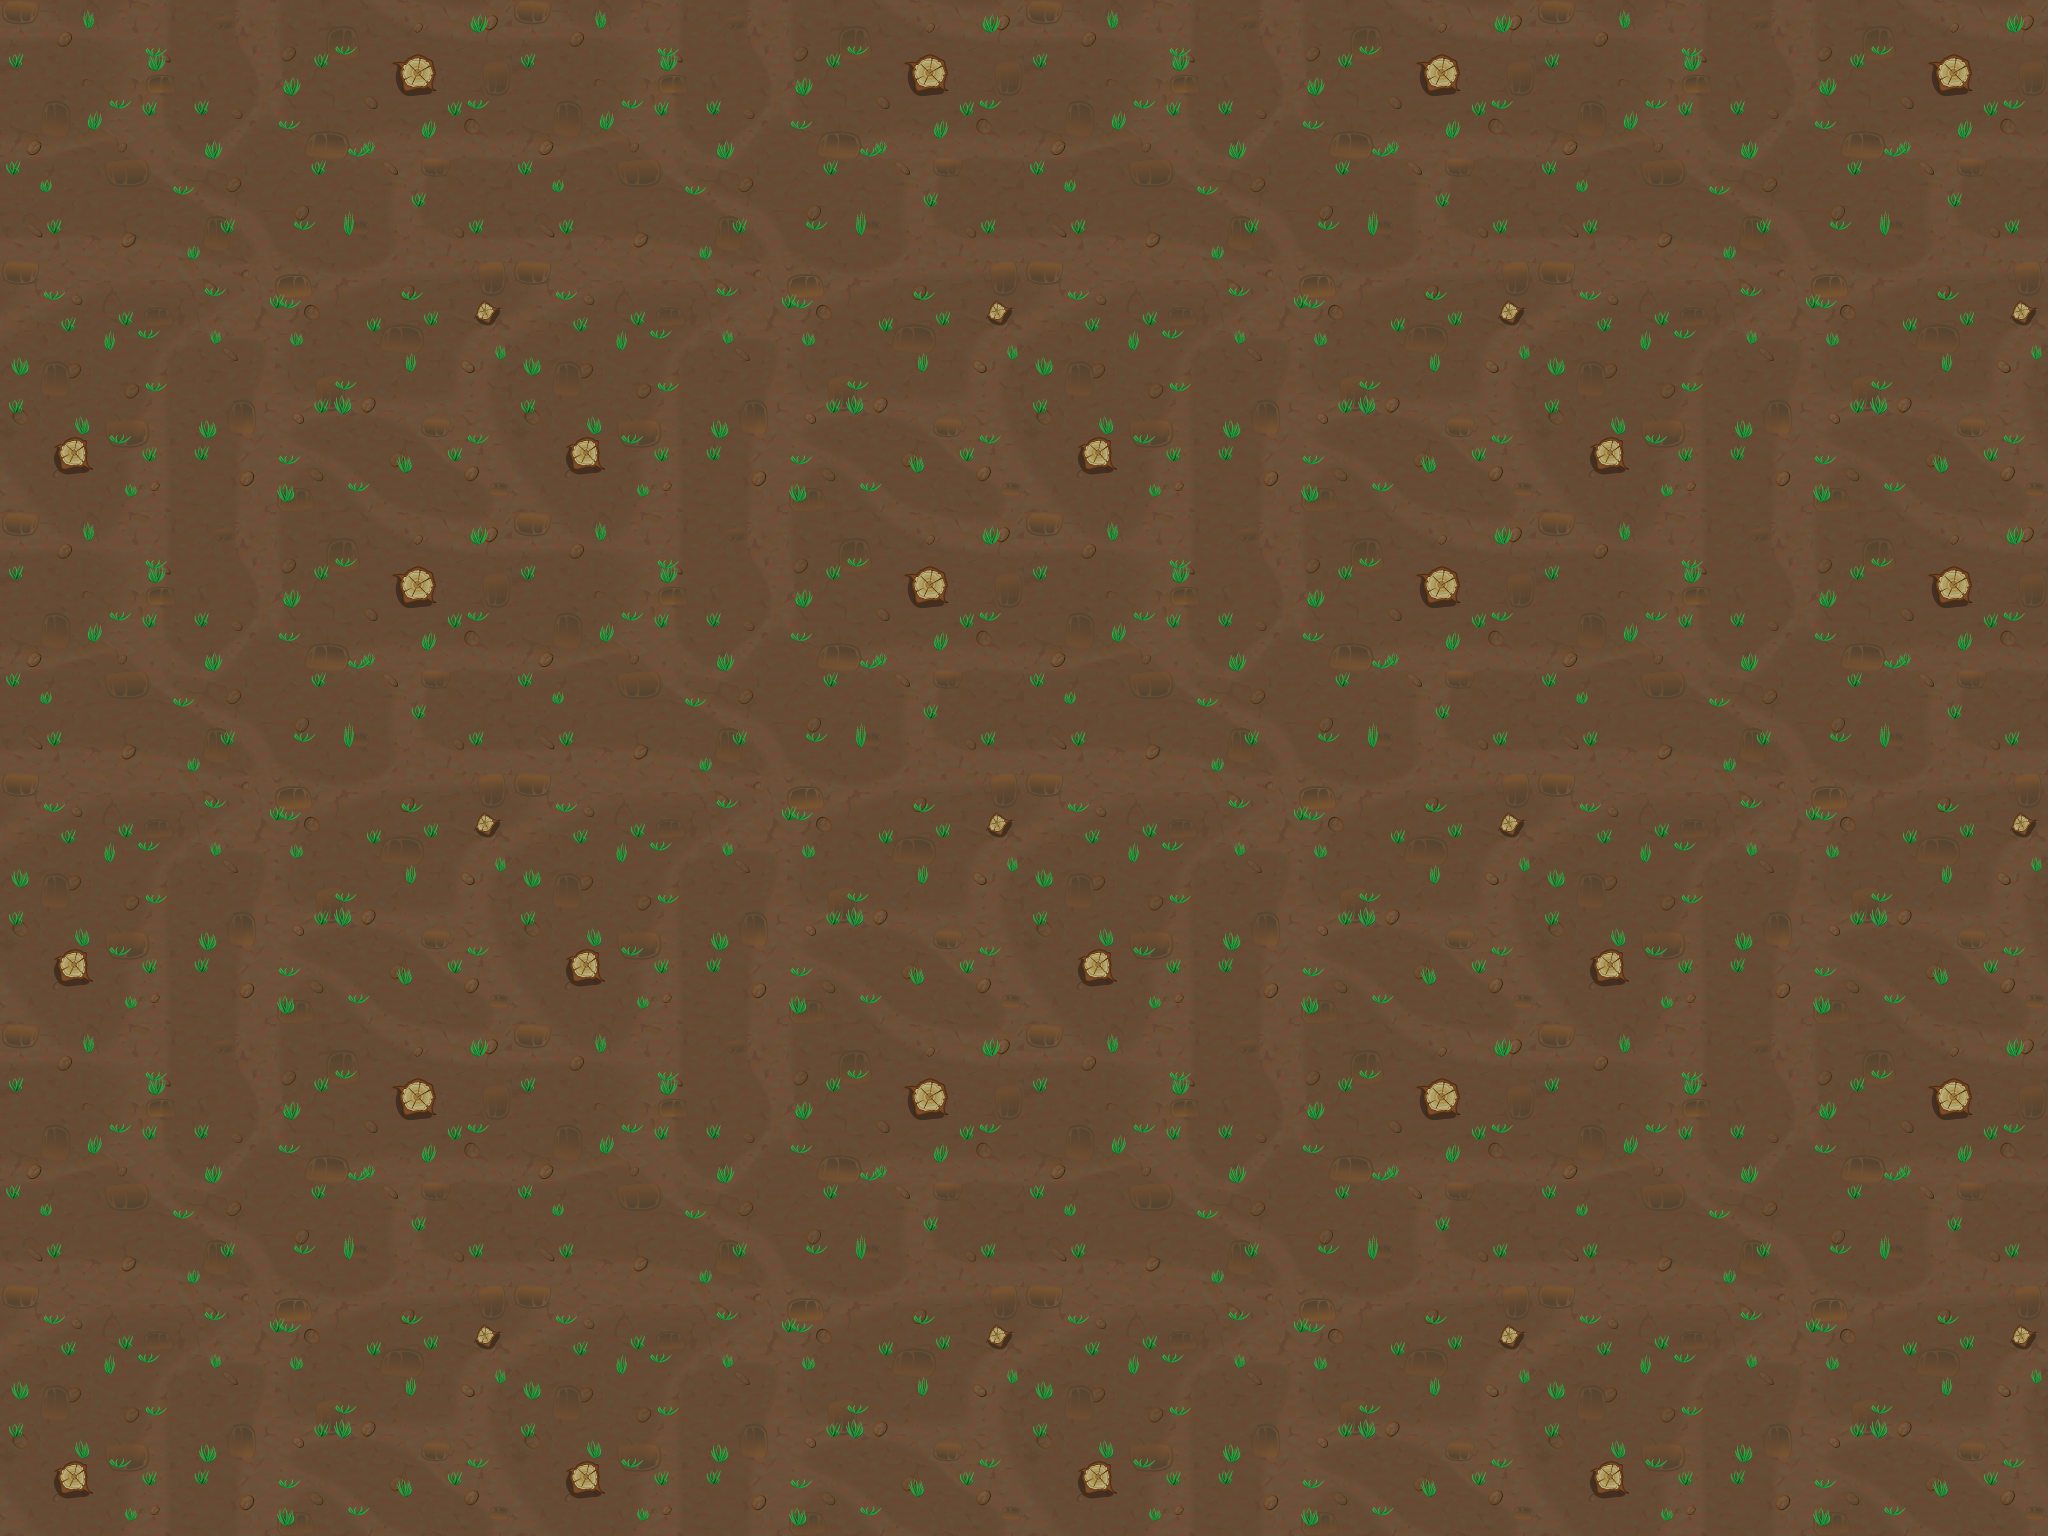
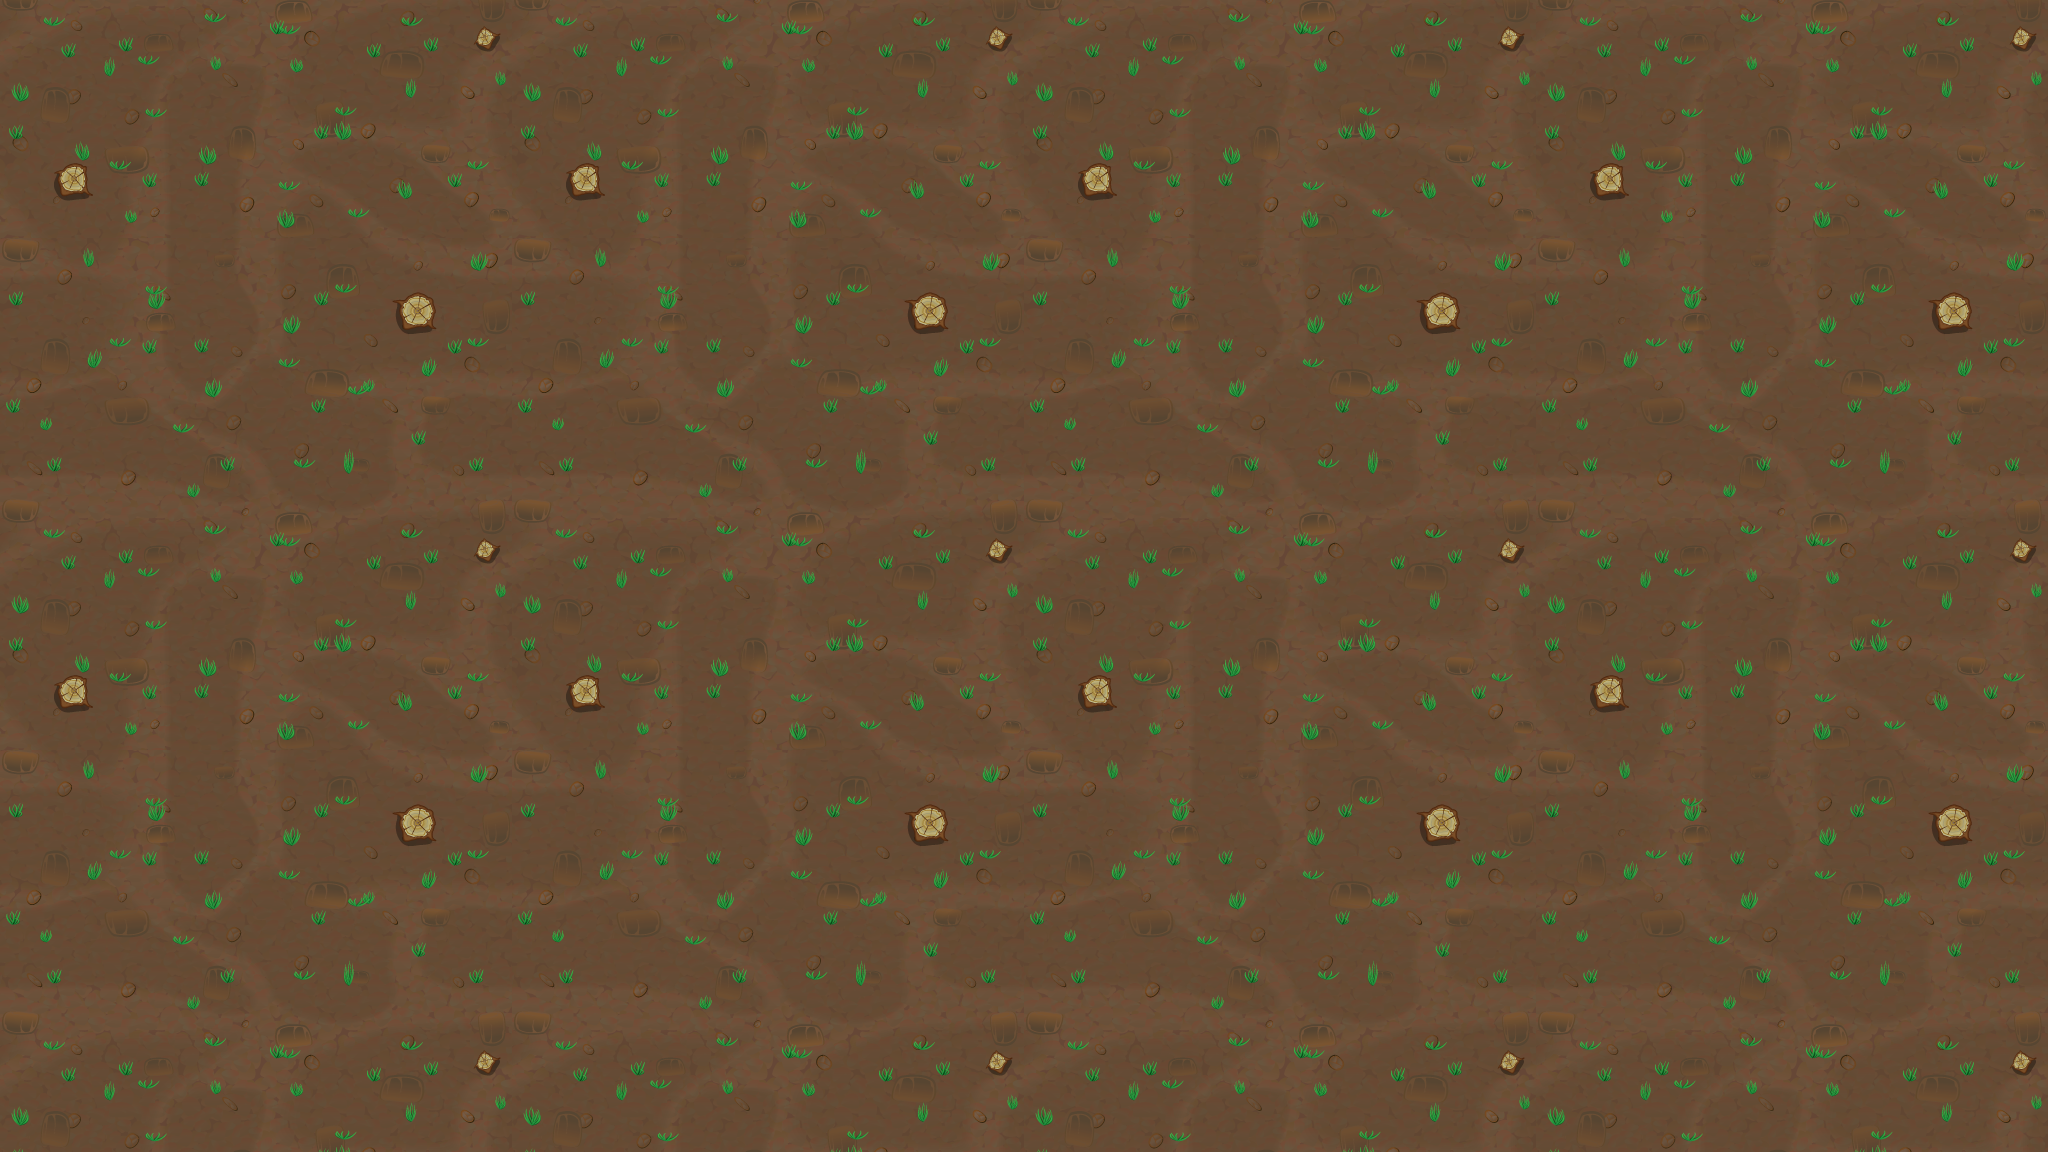
menu scene

diff --git a/src/Client/MenuScene.cpp b/src/Client/MenuScene.cpp
@@ -1,0 +1,70 @@
+#include "MenuScene.h"
+#include "../Common/Constants.h"
+#include <iostream>
+
+MenuScene::MenuScene(SdlWindow& window) : 
+	window(window),
+	backgroundMenuTex("menu_background.png", window),
+	backgroundMenu(backgroundMenuTex),
+	_done(false),
+	fullscreen(true) {}
+
+bool MenuScene::done() {
+	return _done;
+}
+
+void MenuScene::update() {
+	window.getWindowSize(&xScreen, &yScreen);
+	backgroundMenu.setDims(xScreen, yScreen);
+}
+
+void MenuScene::draw() {
+	window.fill();
+	backgroundMenu.drawAt(xScreen/2, yScreen/2);
+	window.render();
+}
+
+int MenuScene::handle() {
+	nextScene = SCENE_MENU;
+	while (SDL_PollEvent(&e) && !_done) {
+		if (e.type == SDL_QUIT) {
+			_done = true;
+
+		} else if (e.type == SDL_MOUSEBUTTONDOWN) {
+			int x, y;
+			SDL_GetMouseState(&x, &y);
+			if (insideQuitButton(x, y)) {
+				audio.playEffect(SFX_BUTTON);	
+				_done = true;
+			}	
+			if (insidePlayButton(x, y)) {
+				audio.playEffect(SFX_BUTTON);
+				nextScene = SCENE_GAME; //TODO: SCENE_LOBBY
+			}
+
+		} else if (e.type == SDL_KEYDOWN) {
+			SDL_KeyboardEvent& keyEvent = (SDL_KeyboardEvent&) e;
+			if (keyEvent.keysym.sym == SDLK_F11) {
+				if (fullscreen) {
+					window.setFullscreen(false);
+					fullscreen = false;
+				} else {
+					window.setFullscreen(true);
+					fullscreen = true;
+				}
+			}
+		}
+	}
+	
+	return nextScene;
+}
+
+bool MenuScene::insidePlayButton(int x, int y) {
+	Area playBtn(0.4*xScreen, 0.6*yScreen, 0.3*xScreen, 0.15*yScreen);
+	return playBtn.isInside(x, y);
+}
+
+bool MenuScene::insideQuitButton(int x, int y) {
+	Area quitBtn(0.45*xScreen, 0.8*yScreen, 0.2*xScreen, 0.15*yScreen);
+	return quitBtn.isInside(x, y);
+}

diff --git a/src/Client/MenuScene.h b/src/Client/MenuScene.h
@@ -1,0 +1,33 @@
+#ifndef MENU_SCENE_H
+#define MENU_SCENE_H
+
+#include "BaseScene.h"
+#include "SdlWindow.h"
+#include "SdlTexture.h"
+#include "Audio.h"
+#include "View/BackgroundView.h"
+
+class MenuScene : public BaseScene {
+private:
+	SdlWindow& window;
+	SdlTexture backgroundMenuTex;
+	BackgroundView backgroundMenu;
+	Audio audio;
+	SDL_Event e;
+	bool _done;
+	bool fullscreen;
+	int nextScene;
+	int xScreen, yScreen;
+public:
+	MenuScene(SdlWindow& window);
+	virtual bool done() override;
+	virtual void update() override;
+	virtual void draw() override;
+	virtual int handle() override;
+	virtual ~MenuScene() {}
+private:
+	bool insidePlayButton(int x, int y);
+	bool insideQuitButton(int x, int y);
+};
+
+#endif // MENU_SCENE_H

diff --git a/src/Client/SceneSelector.cpp b/src/Client/SceneSelector.cpp
@@ -1,6 +1,7 @@
 #include "SceneSelector.h"
 #include "../Common/Constants.h"
 #include "GameScene.h"
+#include "MenuScene.h"
 #include <iostream>
 #include <ctime>
 #include <thread>
@@ -15,8 +16,8 @@ SceneSelector::SceneSelector(int xScreen, int yScreen,
 	sendQueue(MAX_COMMANDS_ENQUEUED),
 	receiver(recvQueue, protocol),
 	sender(sendQueue, protocol),
-	currentScene(SCENE_GAME) /*TODO: SCENE_MENU*/ {
-		//scenes.insert(std::make_pair(SCENE_MENU, new MenuScene(window)));
+	currentScene(SCENE_MENU) {
+		scenes.insert(std::make_pair(SCENE_MENU, new MenuScene(window)));
 		//scenes.insert(std::make_pair(SCENE_LOBBY, new LobbyScene(window)));
 		scenes.insert(std::make_pair(SCENE_GAME, new GameScene(window, recvQueue, sendQueue)));
 		

diff --git a/src/Client/View/BackgroundView.cpp b/src/Client/View/BackgroundView.cpp
@@ -2,7 +2,7 @@
 
 BackgroundView::BackgroundView(const SdlTexture& tex) {
 	this->texture = tex;
-	Area srcArea(0, 0, 1920, 1080);
+	Area srcArea(0, 0, 2048, 1152);
 	clips.push_back(srcArea);
 	horizontalScale = 0;
 	verticalScale = 0;
